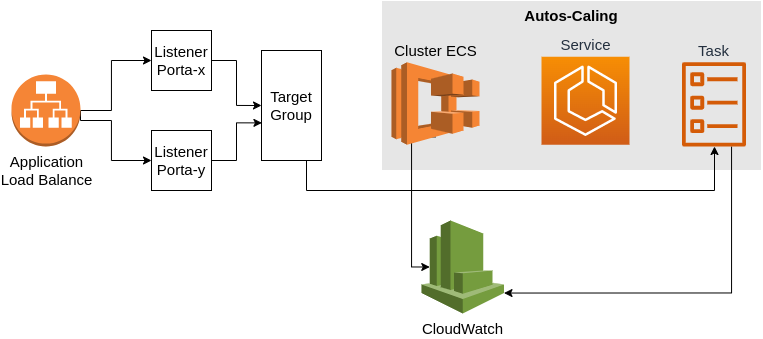
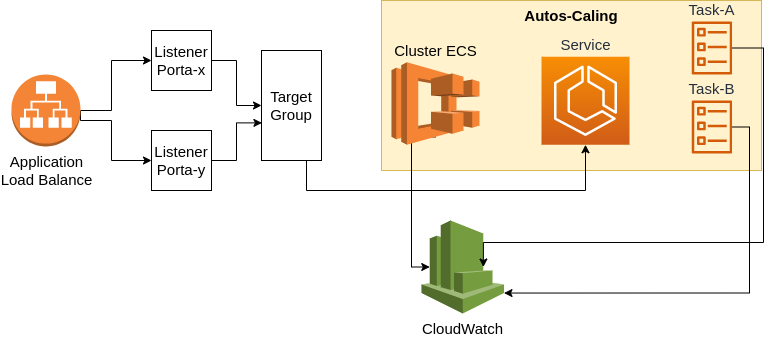
refactor: ajuste documentação how-to

diff --git a/README.md b/README.md
@@ -1,5 +1,6 @@
 ## Infraestrutura
-Imagem da infraestrutura do projeto.
+Imagem da infraestrutura do cluster ECS.
+
 ![image](./img/ecs-mentoria.png)
 ## Requirements
 
@@ -18,59 +19,150 @@ Imagem da infraestrutura do projeto.
 
 Este modulo permite provisionar cluster ECS.
 
-## Resources
+### O que será criado?
+- Cluster ECS.
+- Service.
+- Task definition.
+- Politicas de AutoScaling
+- Security Group.
+- Load Balance.
 
-| Name | Type |
-|------|------|
-| [aws_ecs_cluster](https://registry.terraform.io/providers/hashicorp/aws/latest/docs/resources/ecs_cluster) | resource |
-| [aws_ecs_service](https://registry.terraform.io/providers/hashicorp/aws/latest/docs/resources/ecs_service) | resource |
-| [aws_ecs_task_definition](https://registry.terraform.io/providers/hashicorp/aws/latest/docs/resources/ecs_task_definition) | resource |
-| [aws_appautoscaling_target](https://registry.terraform.io/providers/hashicorp/aws/latest/docs/resources/appautoscaling_target) | resource |
-| [aws_appautoscaling_policy](https://registry.terraform.io/providers/hashicorp/aws/latest/docs/resources/appautoscaling_policy) | resource |
-| [aws_iam_policy_document](https://registry.terraform.io/providers/hashicorp/aws/latest/docs/data-sources/iam_policy_document) | resource |
-| [aws_iam_role_policy_attachment](https://registry.terraform.io/providers/hashicorp/aws/latest/docs/resources/iam_policy_attachment) | resource |
-| [aws_iam_role](https://registry.terraform.io/providers/hashicorp/aws/latest/docs/resources/iam_role) | resource |
-| [aws_lb](https://registry.terraform.io/providers/hashicorp/aws/latest/docs/resources/lb) | resource |
-| [aws_lb_target_group](https://registry.terraform.io/providers/hashicorp/aws/latest/docs/resources/lbhttps://registry.terraform.io/providers/hashicorp/aws/latest/docs/resources/lb_target_group) | resource |
-| [aws_lb_listener](https://registry.terraform.io/providers/hashicorp/aws/latest/docs/resources/lb_listener) | resource |
-| [aws_lb_listener](https://registry.terraform.io/providers/hashicorp/aws/latest/docs/resources/lb_listener) | resource |
-| [locals](https://www.terraform.io/language/values/locals) | input |
-| [variables](https://www.terraform.io/language/values/variables) | input |
+### O que é o Amazon ECS?
+O Amazon Elastic Container Service (ou ECS, para abreviar) é um serviço totalmente gerenciado de orquestração de contêineres que ajuda a implantar, gerenciar e escalar facilmente aplicações em contêineres.
 
+> Para saber mais sobre AWS ECS acesso o link: https://docs.aws.amazon.com/ecs/index.html 
 
+## Recursos utilizados nesse projeto:
 
+| Name | Type | Description |
+|------|------|---------- |
+| [aws_ecs_cluster](https://registry.terraform.io/providers/hashicorp/aws/latest/docs/resources/ecs_cluster) | resource | Cluster para excutar os containers.  |
+| [aws_ecs_service](https://registry.terraform.io/providers/hashicorp/aws/latest/docs/resources/ecs_service) | resource | Permite executar e manter uma simultaneamente no número especificado de tasks em execução no cluster.  |
+| [aws_ecs_task_definition](https://registry.terraform.io/providers/hashicorp/aws/latest/docs/resources/ecs_task_definition) | resource | É um arquivo de texto `em formato JSON` que descreve um ou mais características dos contêineres. |
+| [aws_appautoscaling_target](https://registry.terraform.io/providers/hashicorp/aws/latest/docs/resources/appautoscaling_target) | resource | O Auto Scaling é um serviço que permite aumentar ou diminuir a escala das tarefas (tasks). |
+| [aws_appautoscaling_policy](https://registry.terraform.io/providers/hashicorp/aws/latest/docs/resources/appautoscaling_policy) | resource | O Auto Scaling é um serviço que permite aumentar ou diminuir a escala das tarefas (tasks). |
+| [aws_iam_role](https://registry.terraform.io/providers/hashicorp/aws/latest/docs/resources/iam_role) | resource | IAM é um serviço de gerenciamento de acesso que ajuda você a controlar o acesso aos recursos da AWS. |
+| [aws_iam_role_policy_attachment](https://registry.terraform.io/providers/hashicorp/aws/latest/docs/resources/iam_policy_attachment) | resource | IAM é um serviço de gerenciamento de acesso que ajuda você a controlar o acesso aos recursos da AWS. |
+| [aws_lb](https://registry.terraform.io/providers/hashicorp/aws/latest/docs/resources/lb) | resource | Elastic Load Balance distribui automaticamente o tráfego de entrada entre as tarefas (tasks) do serviço no cluster. |
+| [aws_lb_target_group](https://registry.terraform.io/providers/hashicorp/aws/latest/docs/resources/lbhttps://registry.terraform.io/providers/hashicorp/aws/latest/docs/resources/lb_target_group) | resource | Fornece um grupo de destino que onde o load balance consiga encaminhar requisições. |
+| [aws_lb_listener](https://registry.terraform.io/providers/hashicorp/aws/latest/docs/resources/lb_listener) | resource | Porta onde o balanceador de carga está escutando as requisições. |
+| [aws_security_group](https://registry.terraform.io/providers/hashicorp/aws/latest/docs/resources/elasticache_security_group) | resource |  Grupo de segurança atua como um firewall virtual. |
+| [aws_cloudwatch_log_group](https://registry.terraform.io/providers/hashicorp/aws/latest/docs/resources/cloudwatch_log_group) | resource | CloudWatch responsável por armazenar os logs das task. |
+| [required_providers](https://www.terraform.io/language/expressions/version-constraints) | expression | Sintaxe do Terraform para restrições de versão. |
+| [provider](https://www.terraform.io/language/providers) | provider | São plugins utilizado pelo Terraform para interagir com provedores de nuvem.
+| [locals](https://www.terraform.io/language/values/locals) | input | Um conjunto de valores relacionados `chave=valor` que podem ser declarados em um único bloco. |
+| [variables](https://www.terraform.io/language/values/variables) | input | Serve como parâmetros para que um usuário possam personalizar o comportamento sem editar o código fonte. |
 
 ## Inputs
 
 | Name | Description | Type | Default | Required |
 |------|-------------|------|---------|:--------:|
-| cluster\_name | Nome do cluster ECS | `string` | mentoria-iac | yes |
+| cria\_cluster | Define se cluster será criado | `bool` | true | no |
+| cluster\_name | Nome do cluster ECS | `string` | n/a | yes |
+| container\_insights | Usado para habilitar CloudWatch Container Insights para o cluster | `bool` | true | no |
+| delete\_protection | Impede que terraform exclua o load balance | `bool` | false | no |
+| region | Região AWS | `string` | n/a | yes |
+| service\_name | Nome do service cluster que será criado | `string` | n/a | yes |
+| tags | Tags para recurso | `map(string)` | n/a | yes |
 | tags | Tags para recurso | `map(string)` | n/a | yes |
 | region | Região AWS | `string` | us-west-2 | yes |
-| service_name | Nome do service cluster | `string` | n/a | yes |
-| desired_count | Números de tarefas em execução task definition | `number` | 1 | yes |
-| family_name | Nome para task definition | `string` | mentoria-iac | yes |
-| fargate_cpu | Número de CPUs usados na taskde finition | `number` | n/a | yes |
-| fargate_memory | Quantidade de memória usada pela task definition | `number` | n/a | yes |
+| service\_name | Nome do service cluster que será criado | `string` | n/a | yes |
+| app\_count | Números de tarefas em execução task definition | `number` | n/a | yes |
+| family\_name | Nome para task definition | `string` | n/a | yes |
+| fargate\_cpu | Número de CPUs usados na taskde finition | `number` | n/a | yes |
+| fargate\_memory | Quantidade de memória usada pela task definition | `number` | n/a | yes |
+| subnet\_ids | ID das subnetes | `list(string)` | n/a | yes |
+| vpc\_id | ID da VPC | `string` | n/a | yes |
+| app\_port | Porta que será utilizada pela aplicação | `number` | n/a | yes |
+| protocol | Protocolo que será utilizado na aplicação `<http, https, tcp>` | `string` | n/a | yes |
+| policy\_ssl | Nome da política SSL. Obrigatório se o protocolo for `HTTPS ou TLS` | `string` | null | no |
+| certificate\_arn | ARN do certificado de servidor SSL padrão | `string` | null | no |
+| template\_container | Um arquivo json que contém as definições do container | `list(object` | n/a | no |
 
-> Precisa adicionar novas variáveis:
 
 ## Outputs
 
 | Name | Description |
 |------|-------------|
-
+| loadbalance_dns_name | Endereço DNS do loadbalance |
 
 ## Como usar esse módulo
 [Acesse o passo-a-passo](how-to-use-this-module/README.md)
 
-## To do...
-### Precisamos criar/definir:
-- **cloudwatch_log_group**: precisamos de log_group que será utilizado pela task definition.
-- **iam_role**: criar uma role que será anexada ao service ecs.
-- **iam_policy**: uma policy que permita o container enviar log para cloudwatch.
-- **iam_role_policy_attachment**: anexar a police/role.
-- **VPC**: VPC utilizada para projeto.
-- ***route53_record**: escopo de dns para projeto. 
+---
+# Utilizando o módulo
 
-> Continua...
+### Pré-Requisitos
+
+| Name | Version |
+|------|---------|
+| [terraform](#requirement\_terraform) | >= 1.0.0 |
+
+### Criar `terrafile.tf`
+Crie um arquivo `terraform.tf` com o seguinte conteúdo. E altere os valores das variáveis. 
+
+```hcl
+module "ecs_mentoria" {
+  source          = "git@github.com:mentoriaiac/iac-modulo-aws-ecs.git?ref=v1.0"
+  cria_cluster    = true
+  app_port        = 80
+  region          = "us-east-1"
+  app_count       = 1
+  fargate_cpu     = 256
+  fargate_memory  = 512
+  subnet_ids      = ["<ID_SUBNET_X>", "<ID_SUBNET_Y>"]
+  vpc_id          = "<ID_AWS_VPC>"
+  protocol        = "HTTP"
+  family_name     = "<NAME>"
+  service_name    = "<NAME>"
+  cluster_name    = "<NAME>"
+  template_container = [{
+    name      = "<NAME>"
+    image     = "<ENDEREÇO_REGISTRER_IMAGEM_DOCKER>"
+    cpu       = 128
+    memory    = 256
+    essential = true
+    portMappings = [{
+      containerPort = 80
+      hostPort      = 80
+    }]
+    logConfiguration = {
+      logDriver = "awslogs"
+      options = {
+        awslogs-group         = "<NAME>"
+        awslogs-region        = "us-east-1"
+        awslogs-stream-prefix = "<NAME>"
+
+      }
+    }
+  }]
+}
+
+output "load_balancer_dns_name" {
+  value = "http://${module.ecs_mentoria.loadbalance_dns_name}"
+}
+
+```
+
+### Provisionando Cluster ECS
+Após preencher os valores requiridos utilize os comandos abaixo para provisonar cluster e suas aplicação.
+
+```shell
+terraform init 
+terraform fmt
+terraform validate
+terraform plan
+terraform apply
+```
+
+### Descrição dos comandos:
+Segue uma breve descrição dos comandos listados acima. 
+>**terraform init**: Execute o terraform init para baixar todos os plugins necessários.
+
+>**terraform fmt**: O comando é usado para reescrever os arquivos de configuração do Terraform para um formato e estilo canônicos.
+
+>**terraform validate**: Comando valida sintaticamente os arquivos de configuração em um diretório.
+
+>**terraform plan**: Executar um plano de terraform e colocá-lo em um arquivo chamado plano.
+
+>**terraform apply**: Usa plano para aplicar as alterações na AWS.

diff --git a/how-to-use-this-module/README.md b/how-to-use-this-module/README.md
@@ -7,53 +7,7 @@ Para realizar os testes localmente é necessário:
 | Ferramentas | Versão | Instalação |
 | ----------- | ------ | ---------- |
 | Terraform   | >= 1.0.0 | [Acesse](https://learn.hashicorp.com/tutorials/terraform/install-cli) |
-| Docker      | >= 20.10 | [Acesse](https://www.digitalocean.com/community/tutorials/how-to-install-and-use-docker-on-ubuntu-20-04-pt) |
-| Shipyard.run | >= 0.3.36 | [Acesse](https://shipyard.run/docs/install) |
 | Git |  >= 2.30.2 | [Acesse](https://git-scm.com/downloads) |
-
-# Criando o ambiente para a API do Hashicups
-
-Instalação do Shipyard.run
-
-```
-
-curl https://shipyard.run/install | bash
-
-```
-
-Clone o repositório e acesse a pasta blueprint
-
-```
-
-git clone https://github.com/hashicorp-demoapp/product-api-go
-cd product-api-go/blueprint/
-
-```
-
-Inicie a aplicação executando o comando a baixo
-
-```
-
-shipyard run
-
-```
-
-Saída Esperada
-
-```bash
-
-The API can be accessed at
-[http://localhost:19090/coffees](http://localhost:19090/coffees)
-
-```
-
-Crie um usuário para a aplicação
-
-```
-
-curl -X POST localhost:19090/signup -d '{"username":"mentoriaiac", "password":"2021@mentoria"}'
-
-```
 
 # Utilizando o módulo
 
